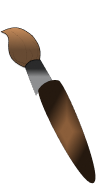
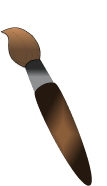
sjsks

diff --git a/Farvfisken.html b/Farvfisken.html
@@ -8,7 +8,24 @@
 </head>
 <body>
 
-    <img src="images/DAME fisk.png" alt="Farvfisken" class="damefisk">
+    <img src="images/damefisk.png" alt="Farvfisken" class="damefisk">
+    <img src="images/pensel.png" alt="Farvfisken" class="pensel">   
     
+
+    
+    <section class="vskift">
+        <svg xmlns="http://www.w3.org/2000/svg" width="79" height="66" viewBox="0 0 79 66" fill="none">
+  <ellipse cx="39.5" cy="33" rx="39.5" ry="33" fill="#5089A5"/>
+  <path d="M23.5728 33.0002L47.4639 21.4765V44.5239L23.5728 33.0002Z" fill="#D9D9D9" fill-opacity="0.8"/>
+</svg>
+    </section>
+
+    <section class="hskift">
+        <svg xmlns="http://www.w3.org/2000/svg" width="79" height="66" viewBox="0 0 79 66" fill="none">
+  <ellipse cx="39.5" cy="33" rx="39.5" ry="33" transform="matrix(-1 0 0 1 79 0)" fill="#5089A5"/>
+  <path d="M55.4272 33.0002L31.5361 21.4765L31.5361 44.5239L55.4272 33.0002Z" fill="#D9D9D9" fill-opacity="0.8"/>
+</svg>
+    </section>
+
 </body>
 </html>

diff --git a/css/farvfisken.css b/css/farvfisken.css
@@ -15,3 +15,30 @@ body{
     width: 600px;
     height: auto;
 }
+
+.pensel {
+    position: absolute;
+    bottom: -55px;
+    right: 200px;
+    transform: translate(-50%, -50%);
+    width: 100px;
+    height: auto;
+}
+
+.vskift {
+    position: absolute;
+    top: 350px;
+    left: 100px;
+    transform: translate(-50%, -50%);
+    width: 100px;
+    height: auto;
+}
+
+.hskift {
+    position: absolute;
+    top: 350px;
+    right: 50px;
+    transform: translate(-50%, -50%);
+    width: 100px;
+    height: auto;
+}
